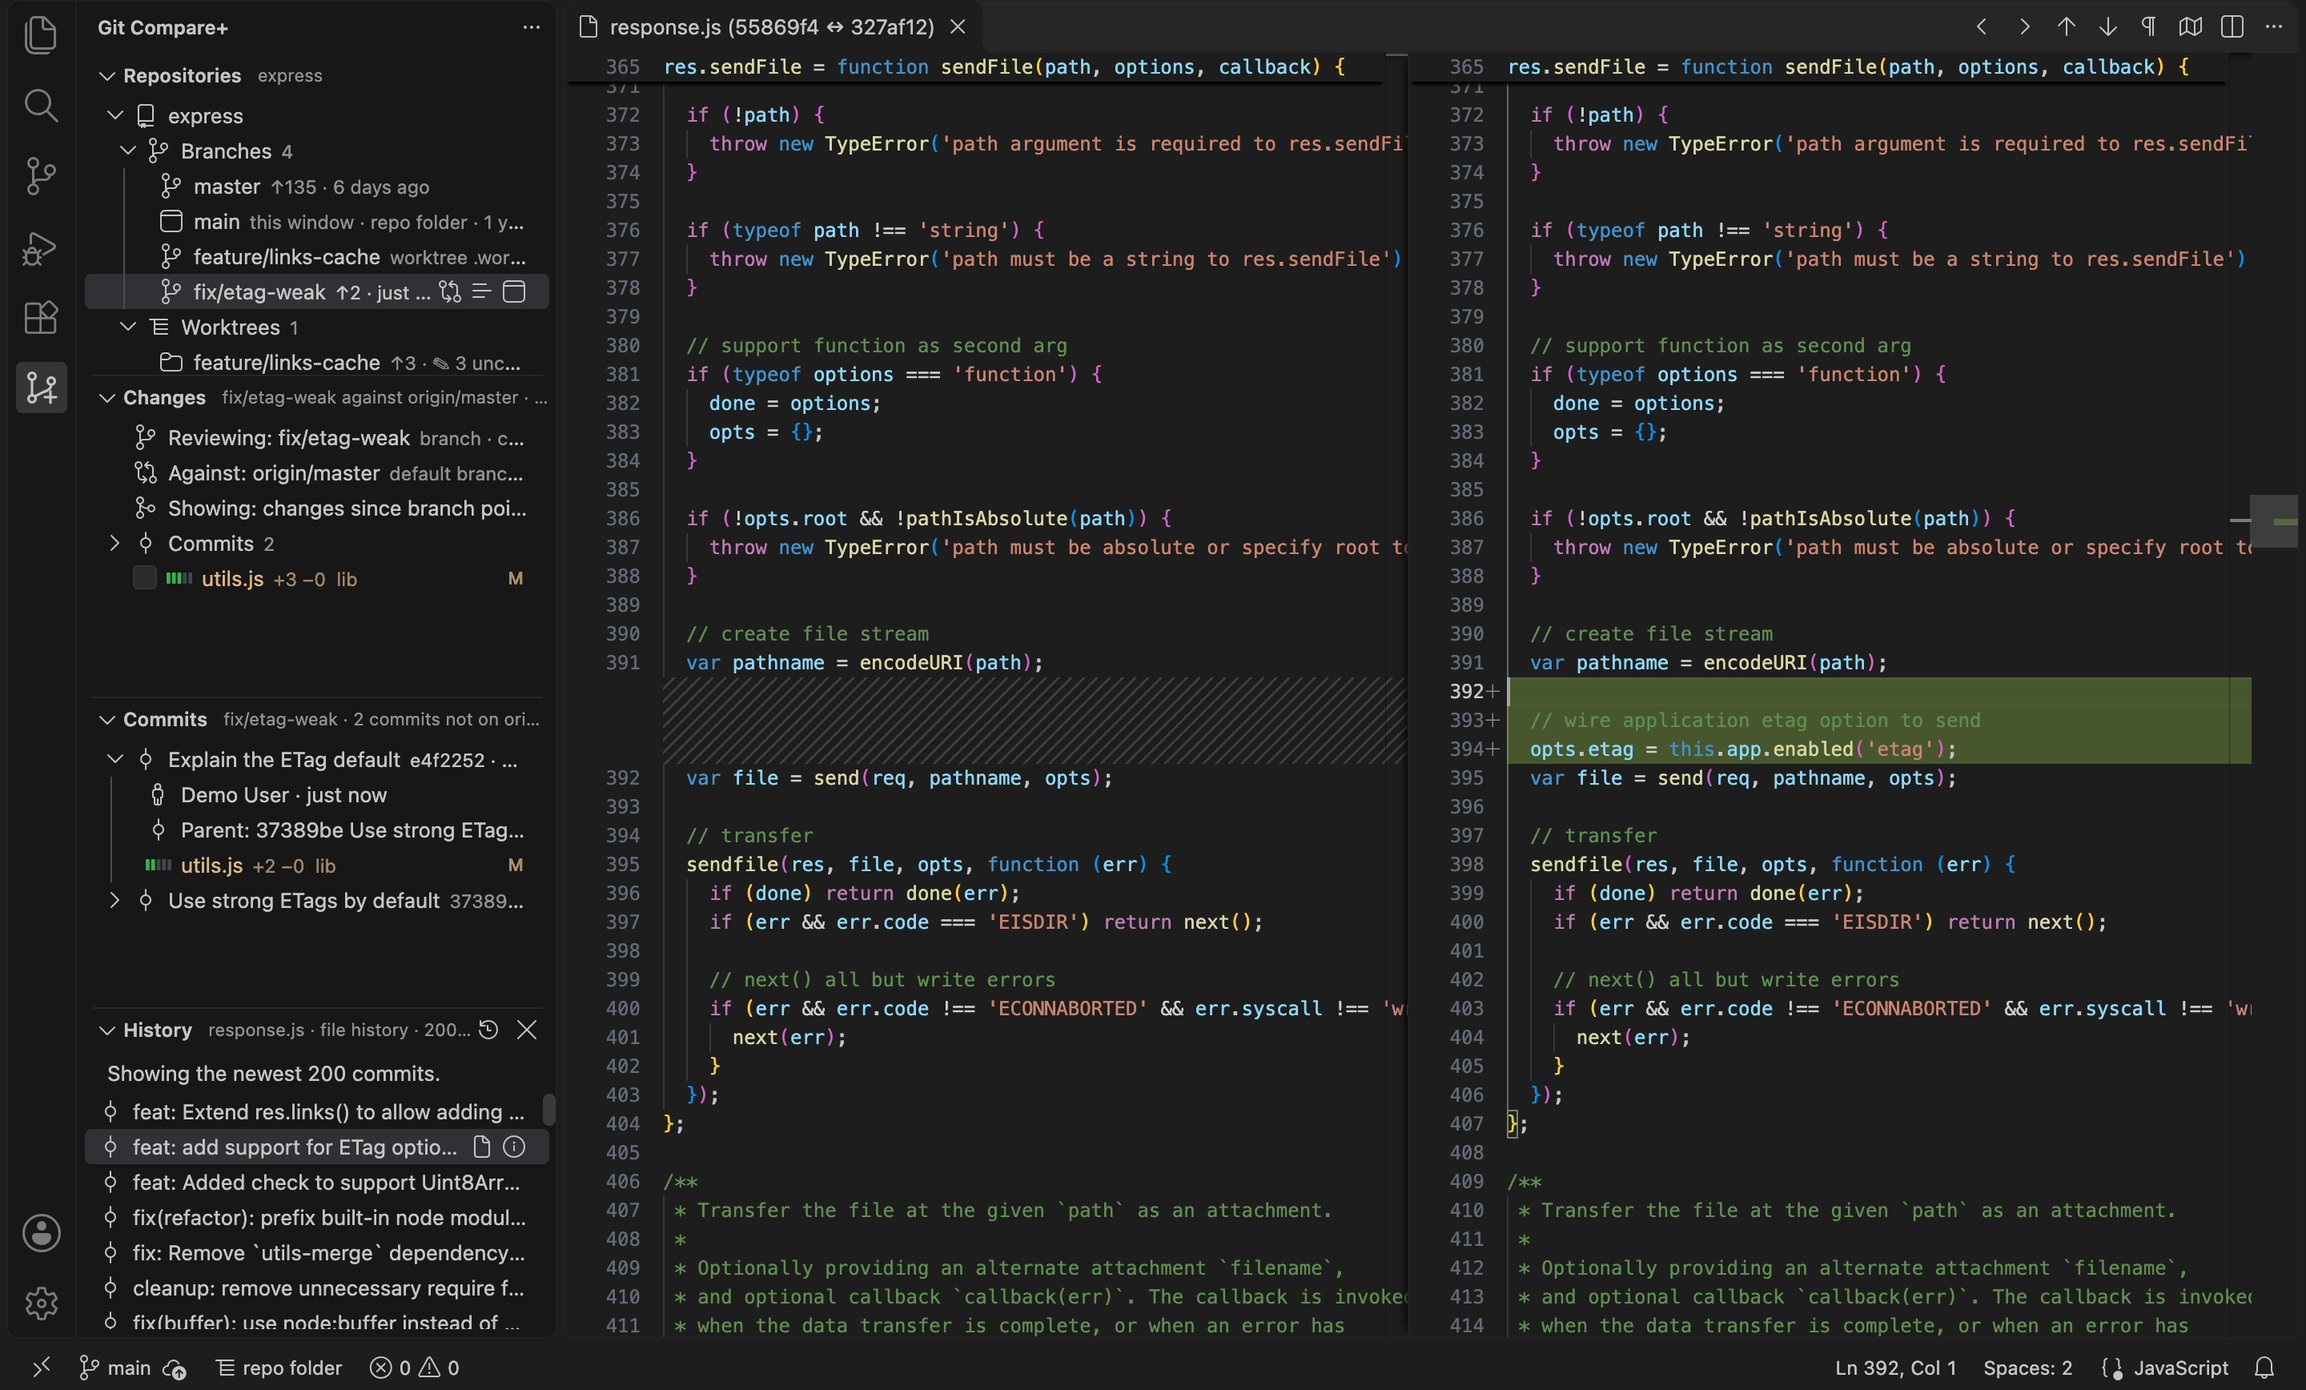
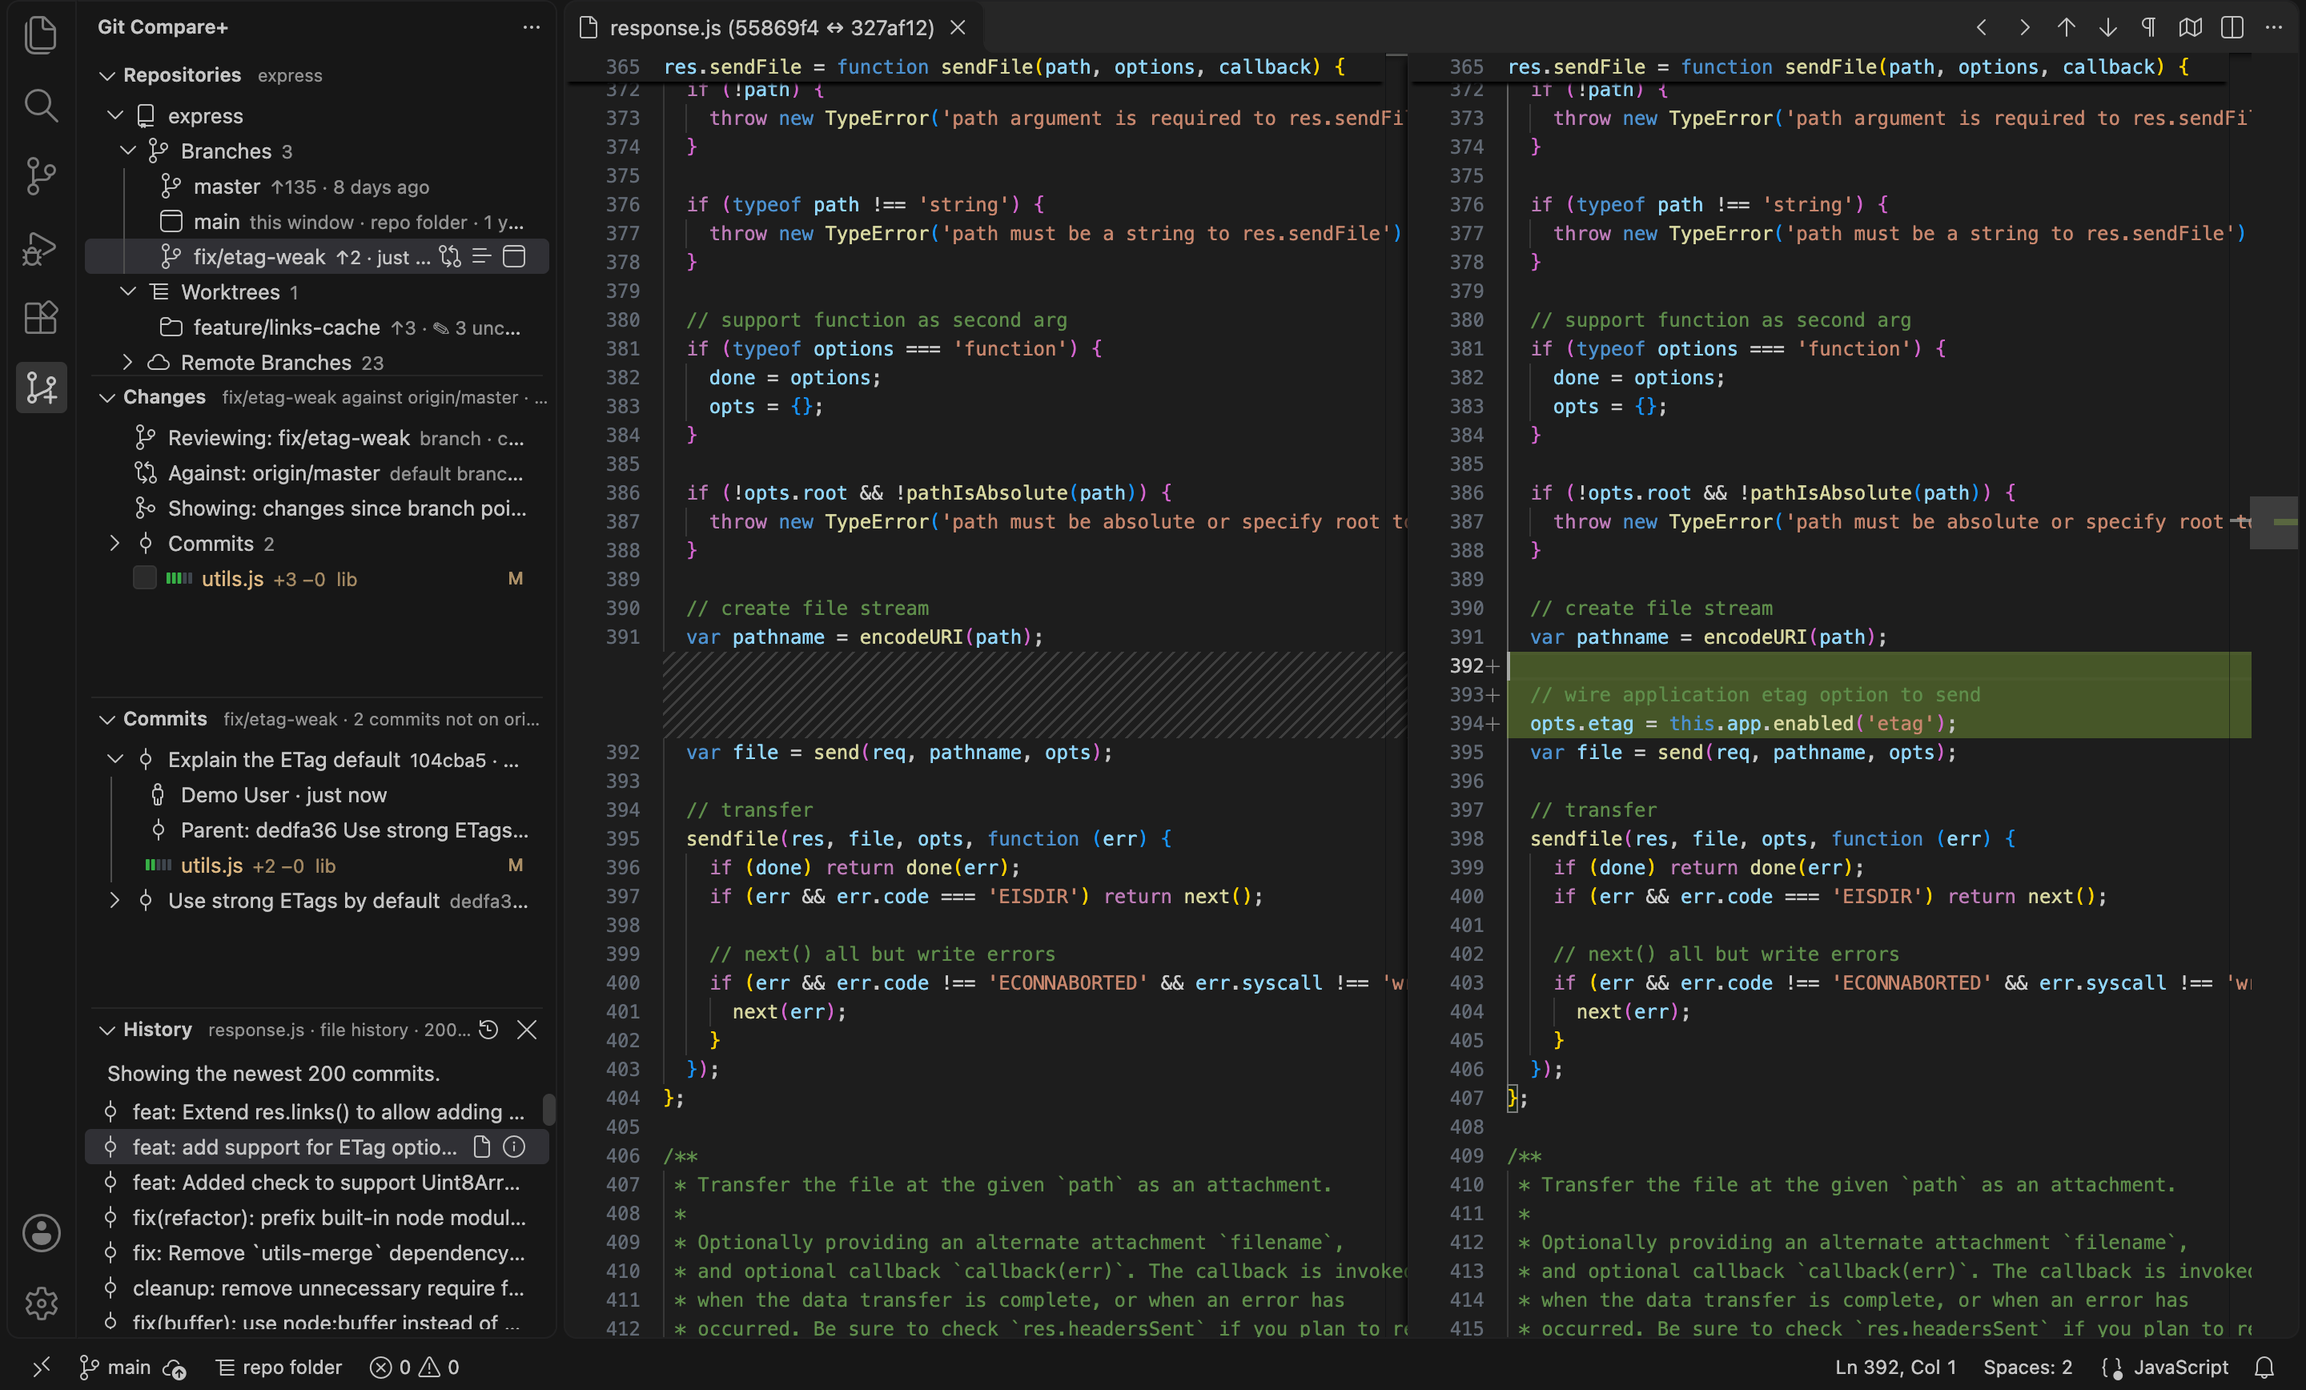
Repositories: show each branch in one place
A branch checked out in a created worktree is listed under Worktrees only,
labelled with its branch; Branches lists every other local branch,
including the repo folder's own branch. The Branches count matches its
rows, the group tooltips say where each branch lives, and the README,
CHANGELOG and screenshots follow the new layout.

diff --git a/src/views/repositoriesView.ts b/src/views/repositoriesView.ts
@@ -3,10 +3,10 @@
  *
  * Shape:
  *   repo                       (the repo folder = main worktree; description = checked-out branch)
- *   ├─ Branches (n)            every local branch, like `git branch`; a checked-out one is a
- *   │                          worktree node standing for its folder (branchRows)
- *   ├─ Worktrees (n)           the worktrees someone created, e.g. `.claude/worktrees/*`; not the
- *   │                          repo folder (linkedWorktrees). Their branches are under Branches too
+ *   ├─ Branches (n)            local branches outside created worktrees; the repo folder's branch
+ *   │                          is a worktree node standing for that folder (branchRows)
+ *   ├─ Worktrees (n)           the worktrees someone created, e.g. `.claude/worktrees/*`, labelled
+ *   │                          with their branch; not the repo folder (linkedWorktrees)
  *   ├─ Remote Branches (n)     remote-tracking branches (collapsed)
  *   └─ Stashes (n)             the repo's stashes (collapsed); each expands to its files
  *
@@ -23,7 +23,9 @@
  * given a second worktree (git refuses), so those menu entries are hidden for it.
  *
  * Why this split: developers look for `main` among the branches even when it is checked out in
- * the repo folder, and think of a worktree as something they create from a branch.
+ * the repo folder, and think of a worktree as something they create from a branch, where that
+ * branch then lives. Each branch therefore appears once: under Worktrees when a created worktree
+ * has it checked out, otherwise under Branches.
  *
  * Order (treeOrder.ts): default branch, then main/master, then newest commit first. Each worktree/branch shows the age of its latest commit, and how many
  * commits it is ahead of / behind the repo's default Against (`↑3 ↓12`, aheadBehind.ts).
@@ -516,10 +518,9 @@ export class RepositoriesProvider implements vscode.TreeDataProvider<RepoTreeNod
       return linkedWorktrees(details.worktrees).map((worktree) => ({ kind: 'worktree', repo, worktree, isMain: false, group }));
     }
     if (group === 'branches') {
-      // Main = git's first entry (kept first by sortWorktrees), compared by path.
-      const mainPath = details.worktrees[0]?.path;
-      return branchRows(details.refs, usableWorktrees(details.worktrees)).map(({ ref, worktree }): RepoTreeNode =>
-        worktree === undefined ? { kind: 'branch', repo, ref } : { kind: 'worktree', repo, worktree, isMain: worktree.path === mainPath, group },
+      // branchRows only attaches the repo folder (main worktree), so a worktree row here is main.
+      return branchRows(details.refs, details.worktrees).map(({ ref, worktree }): RepoTreeNode =>
+        worktree === undefined ? { kind: 'branch', repo, ref } : { kind: 'worktree', repo, worktree, isMain: true, group },
       );
     }
     return details.refs.filter((r) => r.kind === 'remote').map((ref) => ({ kind: 'branch', repo, ref }));
@@ -617,7 +618,7 @@ export class RepositoriesProvider implements vscode.TreeDataProvider<RepoTreeNod
         : group === 'stashes'
           ? details.stashes.length
           : group === 'branches'
-            ? details.refs.filter((r) => r.kind === 'local').length
+            ? branchRows(details.refs, details.worktrees).length
             : details.refs.filter((r) => r.kind === 'remote').length;
     // Remote branches and stashes are long or rarely needed; keep them out of the way.
     const state = group === 'remotes' || group === 'stashes' ? vscode.TreeItemCollapsibleState.Collapsed : vscode.TreeItemCollapsibleState.Expanded;
@@ -632,8 +633,8 @@ export class RepositoriesProvider implements vscode.TreeDataProvider<RepoTreeNod
 
 // What each group holds; the Branches/Worktrees split is not the same in every git tool.
 const GROUP_TOOLTIPS: Record<GroupKind, string> = {
-  branches: 'Every local branch, like `git branch`. A checked-out branch stands for its folder: clicking it reviews the files there, uncommitted edits included.',
-  worktrees: 'Worktrees created from a branch (git worktree add, Claude Code). The repo folder itself is the repo row above.',
+  branches: "Local branches, except those checked out in a created worktree (listed under Worktrees). The repo folder's branch stands for that folder: clicking it reviews the files there, uncommitted edits included.",
+  worktrees: 'Worktrees created from a branch (git worktree add, Claude Code), each labelled with its branch, which is listed here only. The repo folder itself is the repo row above.',
   remotes: 'Remote-tracking branches, as of the last fetch.',
   stashes: "The repo's stashes, newest first.",
 };
@@ -659,9 +660,9 @@ function worktreeItem(
   const isBase = baseMatches(base, { worktreeRoot: worktree.path });
   item.id = `${group}:worktree:${worktree.path}`;
   item.iconPath = new vscode.ThemeIcon(isBase ? 'target' : inWindow ? 'window' : group === 'branches' ? 'git-branch' : 'folder');
-  // Under Branches the row is a branch, so it says which folder; under Worktrees the label is
+  // Under Branches the only worktree row is the repo folder's branch; under Worktrees the label is
   // already a worktree, so the short path is enough.
-  const location = isMain ? 'repo folder' : group === 'branches' ? `worktree ${displayPath(repo.root, worktree.path)}` : displayPath(repo.root, worktree.path);
+  const location = isMain ? 'repo folder' : displayPath(repo.root, worktree.path);
   // Age of the latest commit, so the newest-first order is visible.
   const age = committedAt === undefined ? undefined : formatAge(committedAt, Date.now());
   // Under Branches, where it is checked out leads (as on the plain branch rows next to it), so a

diff --git a/src/branchLocation.ts b/src/branchLocation.ts
@@ -32,35 +32,38 @@ export type BranchLocation =
   | { readonly kind: 'otherWorktree'; readonly worktree: WorktreeEntry }
   | { readonly kind: 'notCheckedOut' };
 
-/** One row of the "Branches" group: a local branch, and the worktree it is checked out in, if any. */
+/** One row of the "Branches" group: a local branch, and the repo folder when it is checked out there. */
 export interface BranchRow {
   readonly ref: RefEntry;
-  /** Set when the branch is checked out: the row then stands for that folder (see `branchRows`). */
+  /** Set when the branch is checked out in the repo folder: the row then stands for that folder. */
   readonly worktree?: WorktreeEntry;
 }
 
 /**
- * Every local branch in its given order, like `git branch`: the "Branches" group. Developers look
- * for `main` among the branches, not among worktrees, even when it is checked out in the repo
- * folder. A checked-out branch carries its worktree, and its row stands for that folder (files on
- * disk, uncommitted edits included), the same as clicking that worktree, so a click on `main`
- * shows the work you have in progress on it.
- * @param worktrees - the repo's usable worktrees; a branch held by a stale one is a plain branch.
+ * The "Branches" group: every local branch that is not checked out in a created worktree, in the
+ * given order. Each branch appears in one place only: a branch checked out in a worktree someone
+ * created is listed under Worktrees (labelled with the branch), since that worktree is where it
+ * lives now. The repo folder's own branch (usually `main`) stays here, because developers look
+ * for it among the branches; its row stands for the repo folder (files on disk, uncommitted edits
+ * included), so a click on `main` shows the work in progress on it.
+ * @param worktrees - git's list in display order, main first, unfiltered: a branch held only by a
+ *   stale (prunable) worktree is a plain branch, and a bare main entry holds no branch.
  */
 export function branchRows(refs: readonly RefEntry[], worktrees: readonly WorktreeEntry[]): BranchRow[] {
-  const holders = new Map(worktrees.flatMap((w) => (w.branch === undefined ? [] : [[w.branch, w] as const])));
+  const linkedBranches = new Set(linkedWorktrees(worktrees).flatMap((w) => (w.branch === undefined ? [] : [w.branch])));
+  const main = worktrees[0];
+  const repoFolder = main !== undefined && !main.bare && !main.prunable ? main : undefined;
   return refs
-    .filter((ref) => ref.kind === 'local')
-    .map((ref) => {
-      const worktree = holders.get(ref.name);
-      return worktree === undefined ? { ref } : { ref, worktree };
-    });
+    // Skip branches checked out in a created worktree: the Worktrees group lists them.
+    .filter((ref) => ref.kind === 'local' && !linkedBranches.has(ref.name))
+    .map((ref) => (repoFolder !== undefined && repoFolder.branch === ref.name ? { ref, worktree: repoFolder } : { ref }));
 }
 
 /**
  * The "Worktrees" group: the worktrees someone created (`git worktree add`, Claude's
  * `.claude/worktrees/*`), i.e. every usable one except the main worktree. The main worktree is the
- * repo folder itself, already the repo row, and its branch is listed under Branches.
+ * repo folder itself, already the repo row, and its branch is listed under Branches. The branches
+ * these worktrees have checked out are listed here only (branchRows leaves them out).
  * @param worktrees - git's list in display order, main first (unfiltered, so a bare main entry
  *   is dropped rather than promoting a linked worktree to "main").
  */

diff --git a/test/branchLocation.test.ts b/test/branchLocation.test.ts
@@ -21,22 +21,38 @@ describe('branchLocation', () => {
 });
 
 describe('branchRows', () => {
-  it('lists every local branch in order, like git branch; checked-out ones carry their worktree', () => {
+  it('lists local branches in order; the repo folder branch carries it; created-worktree branches are left out', () => {
     const refs = [ref('main'), ref('feature-x'), ref('old'), ref('origin/old', 'remote'), ref('newer')];
     const rows = branchRows(refs, worktrees);
+    // feature-x is checked out in /r/.wt/x, so it is listed under Worktrees only.
     expect(rows.map((r) => [r.ref.name, r.worktree?.path])).toEqual([
       ['main', ROOT],
-      ['feature-x', '/r/.wt/x'],
       ['old', undefined],
       ['newer', undefined],
     ]);
     // Not checked out: no worktree key at all, so the row is a plain branch.
-    expect('worktree' in (rows[2] ?? {})).toBe(false);
+    expect('worktree' in (rows[1] ?? {})).toBe(false);
   });
 
-  it('treats every branch as not checked out when all worktrees are detached, and handles no branches', () => {
+  it('keeps a branch held only by a stale worktree as a plain branch', () => {
+    const stale = { ...wt('/r/.wt/gone', 'gone'), prunable: true };
+    expect(branchRows([ref('main'), ref('gone')], [wt(ROOT, 'main'), stale]).map((r) => [r.ref.name, r.worktree?.path])).toEqual([
+      ['main', ROOT],
+      ['gone', undefined],
+    ]);
+  });
+
+  it('attaches no folder when the main entry is bare, and still leaves out created-worktree branches', () => {
+    const bareMain = { ...wt('/r.git', 'main'), bare: true };
+    expect(branchRows([ref('main'), ref('feature-x')], [bareMain, wt('/r/.wt/x', 'feature-x')]).map((r) => [r.ref.name, r.worktree?.path])).toEqual([
+      ['main', undefined],
+    ]);
+  });
+
+  it('treats every branch as not checked out when all worktrees are detached, and handles no branches or worktrees', () => {
     expect(branchRows([ref('a'), ref('b')], [wt('/r'), wt('/r/.wt/d')]).map((r) => r.worktree)).toEqual([undefined, undefined]);
     expect(branchRows([], worktrees)).toEqual([]);
+    expect(branchRows([ref('a')], []).map((r) => r.ref.name)).toEqual(['a']);
   });
 });
 

diff --git a/README.md b/README.md
@@ -189,23 +189,21 @@ branch or file they're showing.
 
 ```
 orders-service     main · ✎ 3 uncommitted · against origin/main     ← the repo folder
-├─ Branches  14                      every local branch, like `git branch`
+├─ Branches  13                      local branches outside created worktrees
 │  ├─ main               this window · ✎ 3 uncommitted · repo folder
-│  ├─ claude/feature-x   worktree .claude/worktrees/feature-x
 │  └─ old-spike          3 weeks ago
-├─ Worktrees  1                      the worktrees you created
+├─ Worktrees  1                      the worktrees you created, by branch
 │  └─ claude/feature-x   .claude/worktrees/feature-x
 ├─ Remote Branches  31
 └─ Stashes  2
 ```
 
-**Branches** lists every local branch, including the ones checked out somewhere. A checked-out
-branch says where (`this window`, `repo folder`, `worktree .claude/worktrees/x`) and stands for
-that folder: clicking it reviews the files there, uncommitted edits included. **Worktrees** lists
-only the worktrees created from a branch (`git worktree add`, Claude Code's
-`.claude/worktrees/*`). The repo folder you cloned is git's *main worktree*; it's the repo row
-itself, and its branch is under Branches. So a branch in a created worktree appears in both
-groups, with the same behaviour in each.
+Each branch appears in one place. **Worktrees** lists the worktrees created from a branch
+(`git worktree add`, Claude Code's `.claude/worktrees/*`), each named after the branch checked out
+in it; that branch lives there now, so it isn't repeated under Branches. **Branches** lists every
+other local branch. The repo folder you cloned is git's *main worktree*: it's the repo row itself,
+and its branch (usually `main`) stays under Branches, marked `repo folder`. Clicking that row, or
+a worktree row, reviews the files in the folder, uncommitted edits included.
 
 **Order:** in each group, the repo's default branch comes first, then `main`, then `master`.
 Everything else follows, newest commit first. Each worktree and branch shows the age of its latest commit (`3 days ago`). The Compare pickers

diff --git a/CHANGELOG.md b/CHANGELOG.md
@@ -35,11 +35,10 @@ Compare"). Settings, commands and views now use the `gitComparePlus.` prefix.
 
 ### Worktrees and branches
 
-- **Branches** lists every local branch, like `git branch`, saying where each checked-out one is
-  (`this window`, `repo folder`, `worktree .claude/worktrees/x`); clicking a checked-out branch
-  reviews the files in its folder, uncommitted edits included. **Worktrees** lists the worktrees
-  created from a branch; the repo folder is the repo row. Remote branches say where their local
-  copy is.
+- Each branch appears in one place. **Worktrees** lists the worktrees created from a branch,
+  named after their branch. **Branches** lists every other local branch, including the repo
+  folder's own branch (`main`, marked `repo folder`); clicking it reviews the files in the repo
+  folder, uncommitted edits included. Remote branches say where their local copy is.
 - Each sidebar section's header summarises what it shows (e.g. `feature-x against origin/main ·
   14 files` on Changes).
 - **Open…** on a branch says what it will do before doing it: open its worktree in a new window,
